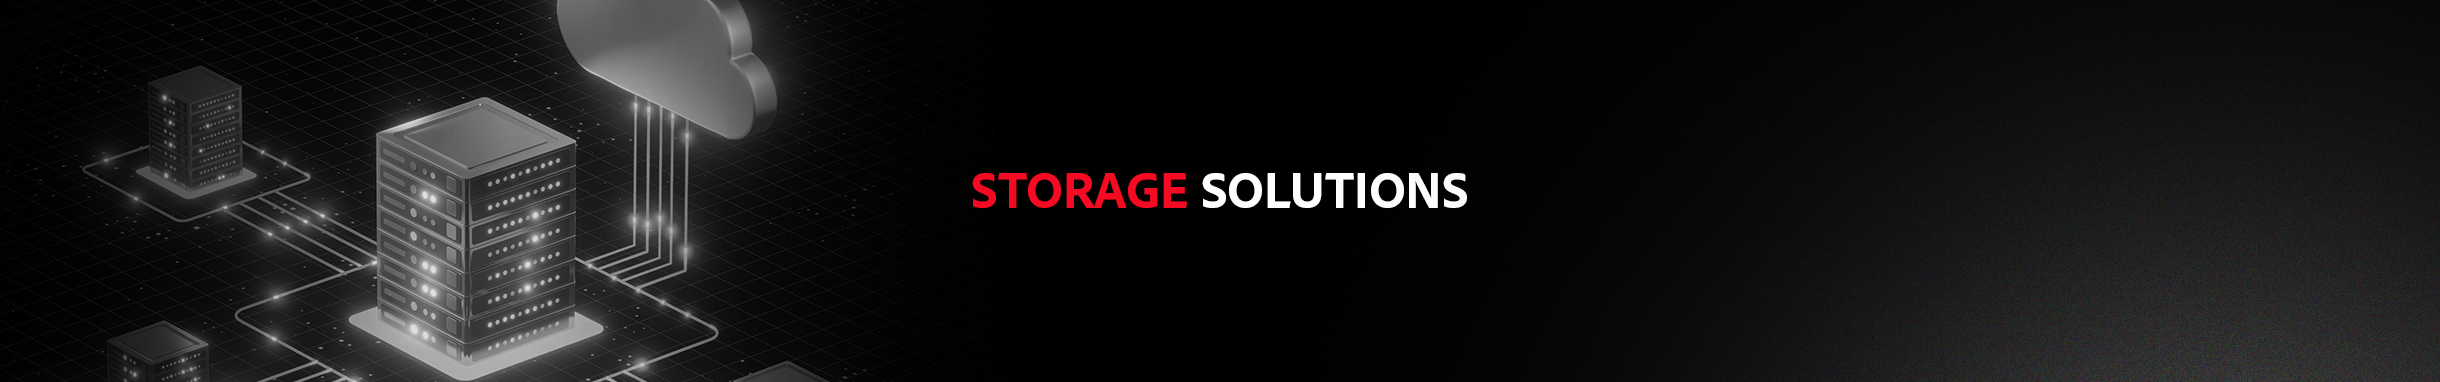
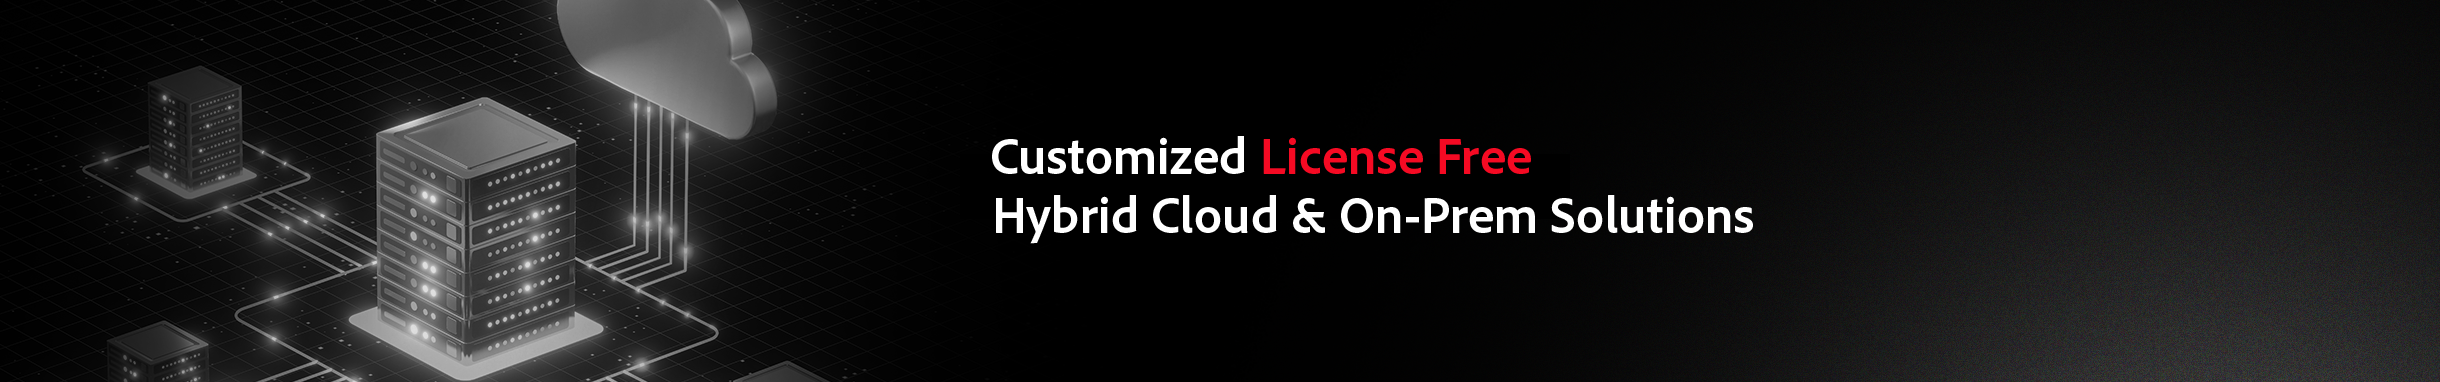
4 completed
4 completed

Changed region(s): [[0.3738, 0.3455, 0.7164, 0.6335]]

diff --git a/public/index.html b/public/index.html
@@ -210,10 +210,9 @@ We have experts in various domains like Cyber Security, Networking,  Hyperscaler
                 <div class="meeting-item">
                   <div class="thumb"> </div>
                   <div class="down-content p-0"> <img src="assets/images/Storage Solutions.png" class="w-100 d-block">
-                    <h4>Storage Solutions</h4>
-                    <p>Managing data growth efficiently is a critical challenge for businesses. Our scalable storage
-                      solutions provide the flexibility and performance you need to store, manage, and protect your
-                      valuable data. </p>
+                    <h4>Customized <span class="theme_color">License Free</span> Hybrid Cloud & On-Prem Solutions</h4>
+                    <p>Get the same hyperscaler experience, but with more control and cost savings. Save 50-80% on public cloud subscriptions annually. Outperform VMware solutions with up to 30-40% cost savings.</p>
+                   
                     <a href="ben_4.html" class="hstack mt-3 gap-1 text-primary read-more"> Read More <span
                         class="lnr lnr-chevron-right fw-bold"></span> </a>                  </div>
                 </div>

diff --git a/public/ben_4.html b/public/ben_4.html
@@ -135,8 +135,7 @@
 			<div class="featured__wrap">
 	<div class="featured__wrapRib">
 			<p class="featured__wrapRibText text-center">04</p>
-	</div>
-	<h3>Customized <span class="theme_color">License Free</span> Hybrid Cloud & On-Prem Solutions</h3><br/>
+	</div><br/>
 	<p>Get the same hyperscaler experience, but with more control and cost savings.
 Save 50-80% on public cloud subscriptions annually.
 Outperform VMware solutions with up to 30-40% cost savings.</p>
